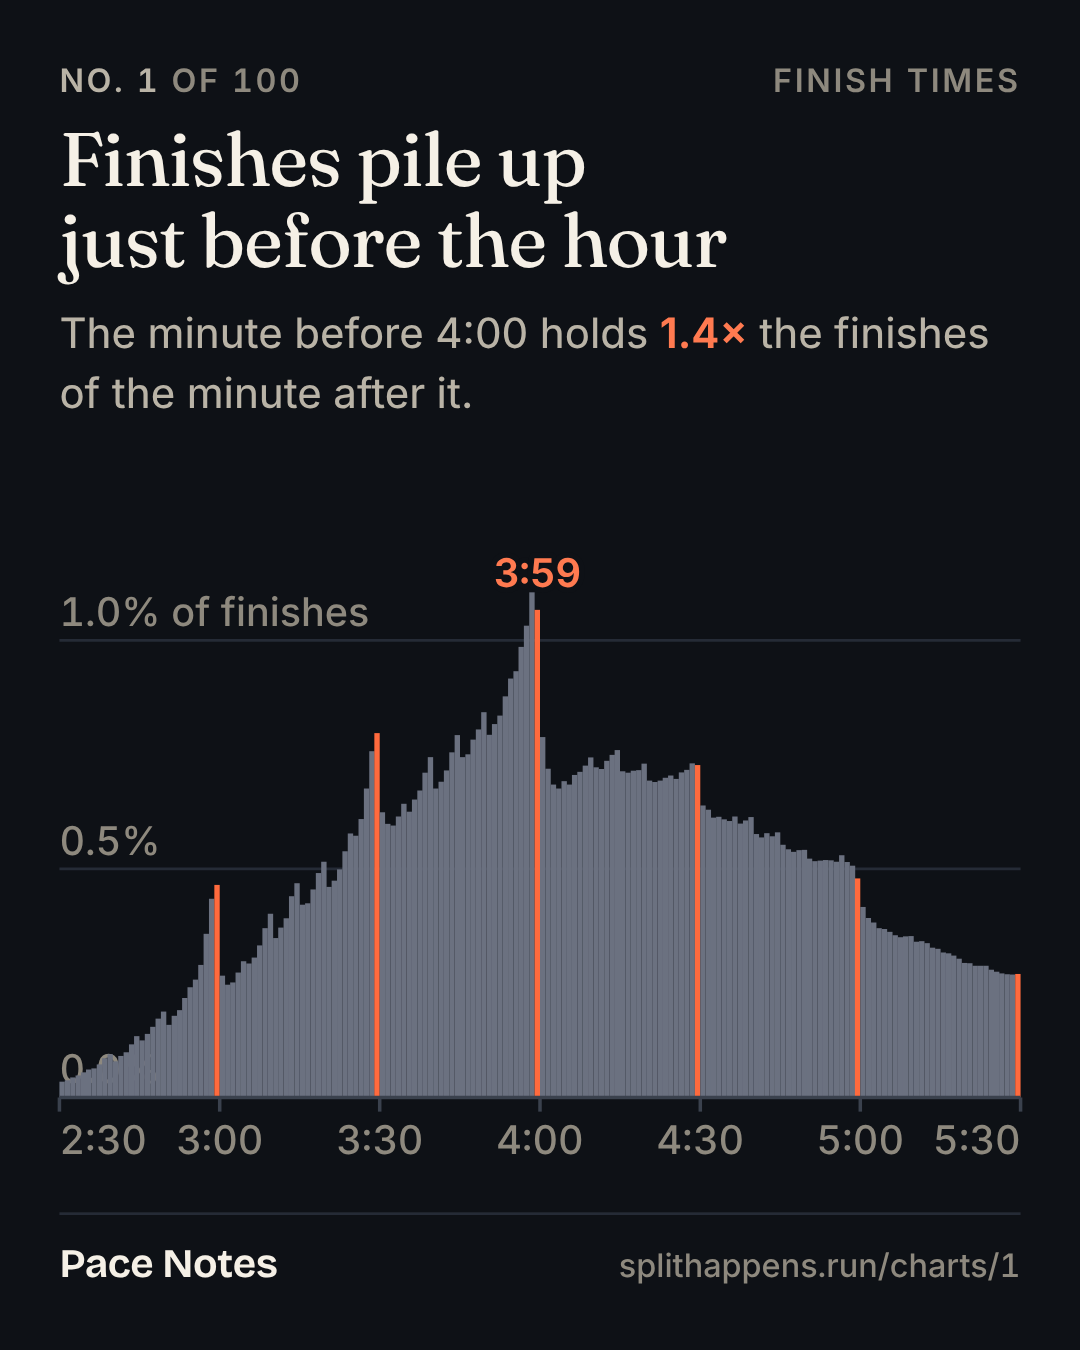
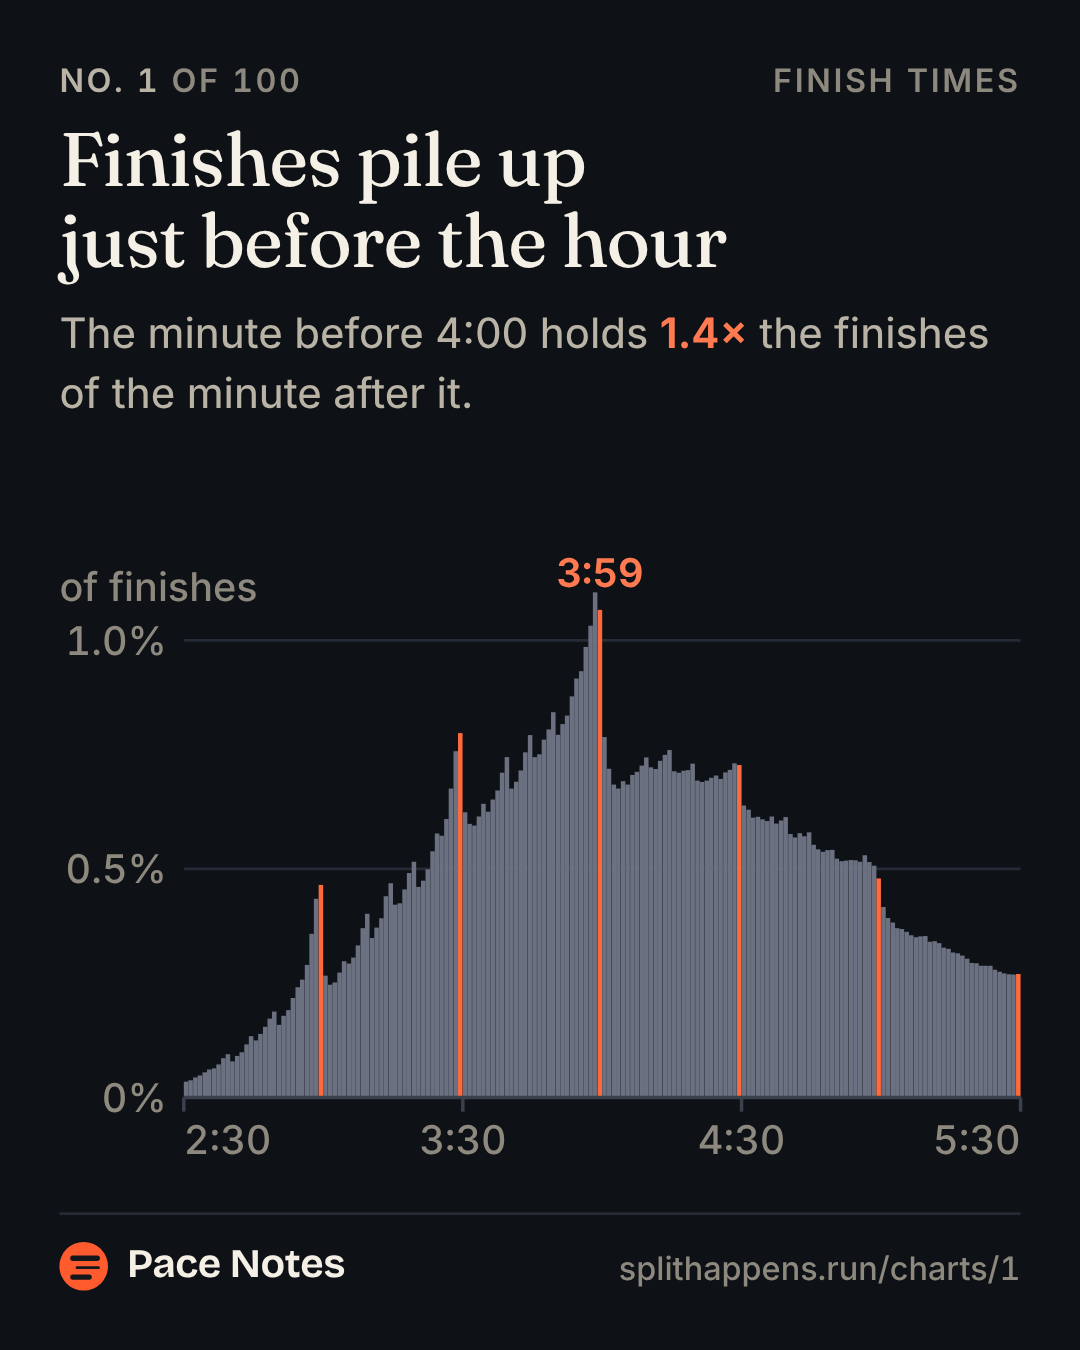
Top 100 charts: brand mark on the cards, section share card
Claude-Session: https://claude.ai/code/session_01WcW4bqd5kAAfXNmRYa36hX

diff --git a/app/styles/pages/charts.css b/app/styles/pages/charts.css
@@ -30,11 +30,17 @@
 .chart-card-take a { color: inherit; text-decoration-color: var(--ink-3); text-underline-offset: 3px; }
 .chart-card-plot { margin: 6px 0 0; min-width: 0; }
 .chart-card-foot {
-  display: flex; justify-content: space-between; gap: var(--s-3); align-items: baseline;
+  display: flex; justify-content: space-between; gap: var(--s-3); align-items: center;
   margin-top: 4px; padding-top: 10px; border-top: 1px solid var(--rule);
   font-family: var(--sans); font-size: var(--t-tick); font-weight: 500; color: var(--ink-3); font-variant-numeric: tabular-nums;
 }
-.chart-card-foot b { font-family: var(--bib); font-weight: 660; font-size: .9375rem; letter-spacing: -.01em; color: var(--ink); }
+.chart-card-foot b { display: inline-flex; align-items: center; gap: 7px; font-family: var(--bib); font-weight: 660; font-size: .9375rem; letter-spacing: -.01em; color: var(--ink); }
+/* The brand mark of the header (components/header.css .brand-mark), drawn again here so the image needs no other sheet. */
+.chart-mark { position: relative; display: block; flex: none; width: 18px; height: 18px; overflow: hidden; border-radius: 50%; background: var(--accent); }
+.chart-mark i { position: absolute; display: block; height: 1.8px; border-radius: 2px; background: var(--on-accent); }
+.chart-mark i:nth-child(1) { left: 3.5px; right: 3.5px; top: 5.2px; }
+.chart-mark i:nth-child(2) { left: 5.5px; right: 3.5px; top: 8.6px; }
+.chart-mark i:nth-child(3) { left: 3.5px; right: 6.2px; top: 12px; }
 
 /* Phones: the card runs edge to edge, as the image does in a feed, so the canvas keeps its width. */
 @media (max-width: 599.98px) {

diff --git a/lib/og-paths.ts b/lib/og-paths.ts
@@ -7,7 +7,8 @@
  *   /tools/<slug>/<more>                              its own card, public/og/tools/<slug>/<more>.png (the goal pages
  *                                                     /tools/marathon-pace/<goal>, the race pages /tools/qualifying/<race>),
  *                                                     else the parent tool's card, public/og/tools/<slug>.png
- *   /stories, /tools, /courses, /analyses, /packs     the section card, public/og/sections/<section>.png,
+ *   /stories, /tools, /courses, /analyses, /packs,    the section card, public/og/sections/<section>.png,
+ *   /charts
  *   and every page below them                         also used by analysis and pack pages
  *   /<page> outside those sections                    its own card when it has one, public/og/pages/<page>.png
  *                                                     (/finish-times, /research)
@@ -32,6 +33,7 @@ const SECTION_CARDS: Readonly<Record<string, string>> = {
   courses: '/og/sections/courses.png',
   analyses: '/og/sections/analyses.png',
   packs: '/og/sections/packs.png',
+  charts: '/og/sections/charts.png',
 };
 
 /** Top-level pages outside the sections keep their own cards here. */

diff --git a/components/charts/ChartPage.tsx b/components/charts/ChartPage.tsx
@@ -13,7 +13,7 @@ import { CATALOG, chartHref, readChart } from '@/lib/charts-server';
 
 /** The brand line under every card: the same on the page and on the image. */
 export function CardFoot({ number }: { number: number }) {
-  return <><b>Pace Notes</b><span>splithappens.run/charts/{number}</span></>;
+  return <><b><span className="chart-mark" aria-hidden="true"><i /><i /><i /></span>Pace Notes</b><span>splithappens.run/charts/{number}</span></>;
 }
 
 /**
